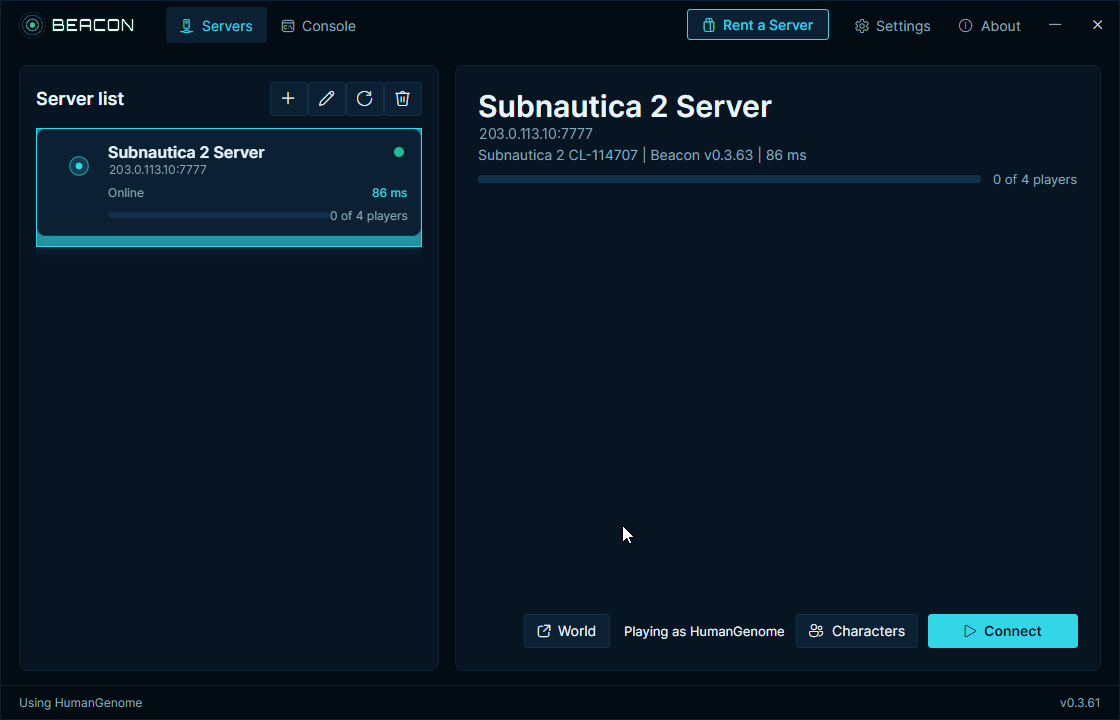
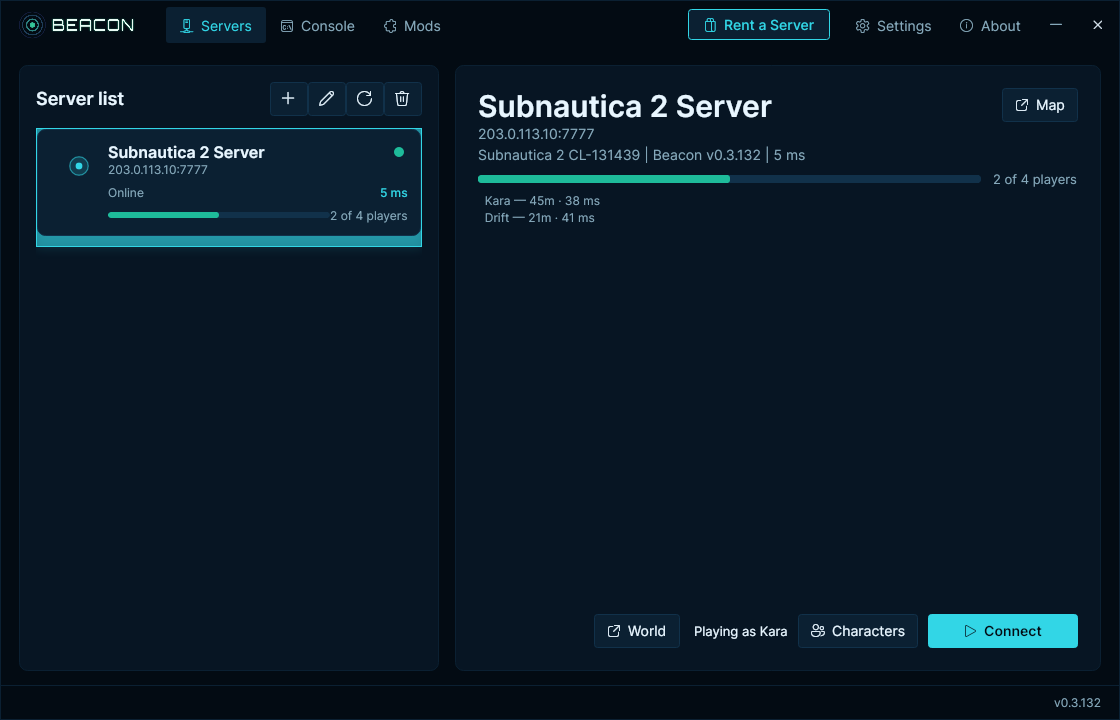
README: World window and save import as of v0.3.132, settings restore, MultiplayerChat credit, new app captures

diff --git a/README.md b/README.md
@@ -61,7 +61,11 @@ snapshot ok: snap-20260610T141503Z-7c9e2ab04d113e (52428800 bytes, sha=ab12cd34e
 snap-20260610T141503Z-7c9e2ab04d113e  52428800B  age=42s  sha=ab12cd34ef56ab12
 ```
 
-Restore by ID from the launcher's **World backups** dialog or the admin HTTP API (`POST /api/v1/snapshots/<id>/restore`). There is no restore command over RCON. The server stops the game process, takes a pre-restore snapshot, swaps the world in, and relaunches Subnautica 2.
+The app's **World** window lists the server's snapshots by time and size and downloads any of them. On a self-hosted server, where BeaconServer starts the game, it also restores a snapshot, imports a save from your PC and moves the newest snapshot over from another of your servers, each after a confirmation. The server stops the game, keeps a snapshot of the current world, swaps the world in and starts the game again. There is no restore command over RCON; scripts can use the admin HTTP API (`POST /api/v1/snapshots/<id>/restore`).
+
+<p align="center">
+  <img src="https://raw.githubusercontent.com/HumanGenome/Beacon/main/docs/img/world-backups.png" alt="Beacon World window with a server's snapshots, Restore and save import" width="560">
+</p>
 
 ### 🛠 Admin console
 BeaconServer exposes Source RCON (default TCP 27018) with built-ins `help`, `status`, `players`, `ping`, `save snapshot`, `save list`, `say`, `announce`, and `motd`, plus slash commands registered by server mods:
@@ -158,7 +162,10 @@ No. The Beacon server runs its own copy of Subnautica 2 in the background and yo
 Yes. BeaconServer launches the real game; it does not ship it. Install the game files under `SnInstallRoot` on the host, from a copy of `steamapps\common\Subnautica2` or through SteamCMD with an account that owns the game.
 
 ### Can I import an existing save?
-Yes, from the launcher's World backups dialog, but the save must be a `.zip`, not a loose `.sav`. The zip must hold the contents of a SaveGames folder: `savegame_0.sav` and its sibling files at the root of the zip, not inside a subfolder. Beacon rejects a zip with no `savegame_*.sav` at its root, takes a backup before importing, and restarts the server on the imported world.
+Yes, on a self-hosted server running BeaconServer 0.3.132 or newer. Open the server's **World** window, save its admin password, and use **Choose file & import**. The save must be a `.zip` of a Subnautica 2 SaveGames folder: a `savegame_N.sav` file and the files next to it at the top of the zip, not inside a subfolder. The server keeps a snapshot of the current world first, makes the imported world its `savegame_0.sav` and restarts on it. On a server whose game is started by a hosting panel, the World window offers snapshot downloads only; ask the host to load a save. Before Beacon 0.3.132 the World window showed only its password row.
+
+### Does Beacon change my own Subnautica 2 settings?
+Only while you play through Beacon. Connect sets the game's network settings for a Beacon join and a 1600x900 window, in your normal Subnautica 2 config folder. When the game closes, Beacon puts your own Engine.ini and display settings back, or on its next start if the app was closed or crashed by then. A display setting you change in game during the session is kept.
 
 ### Is Linux supported?
 No. Beacon is Windows-only, for both the player app and the server (Windows 10/11 or Windows Server, 64-bit). The server launches the Windows build of Subnautica 2 and uses Windows process management.
@@ -185,3 +192,4 @@ The documentation in this repo is MIT. The app and in-game runtime binaries atta
 - [UE4SS](https://github.com/UE4SS-RE/RE-UE4SS): Unreal Engine scripting and modding framework
 - [Avalonia](https://avaloniaui.net/): .NET UI framework used by Beacon
 - [joric/subnautica](https://github.com/joric/subnautica) (Unlicense): the interactive Subnautica 2 map that powers Beacon's live web map
+- [MultiplayerChat](https://www.nexusmods.com/subnautica2/mods/153) by TheMC ([TheMCNetwork](https://github.com/TheMCNetwork/MultiplayerChat)): the in-game chat overlay's typing input, movement lock while typing, and display on the game's own watermark text are adapted from this mod
